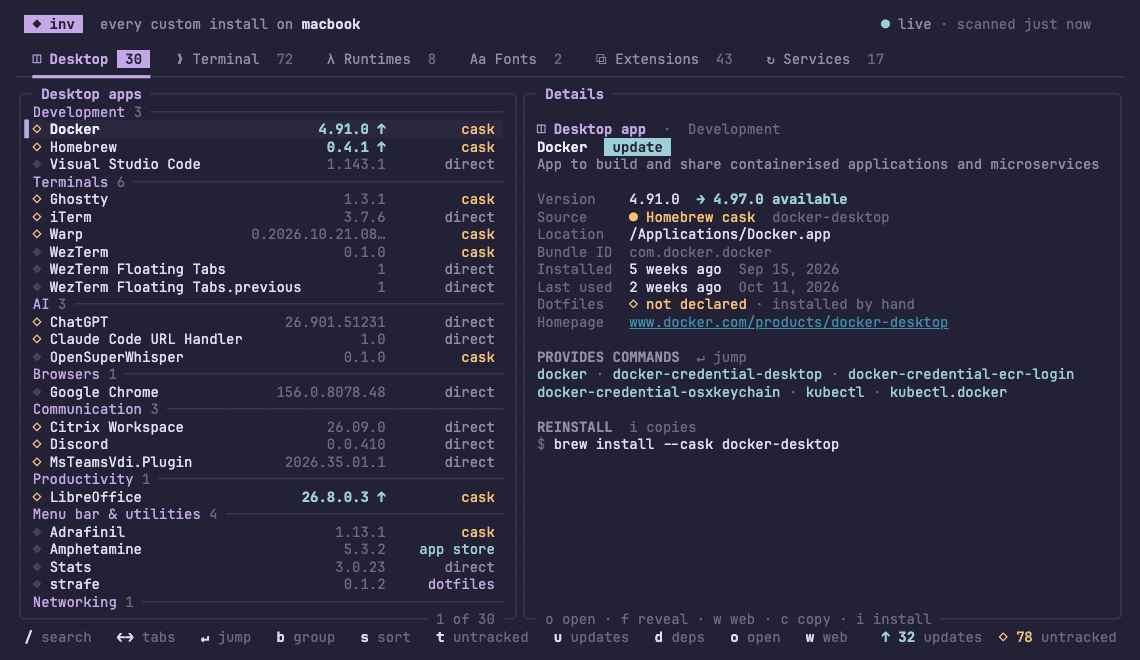
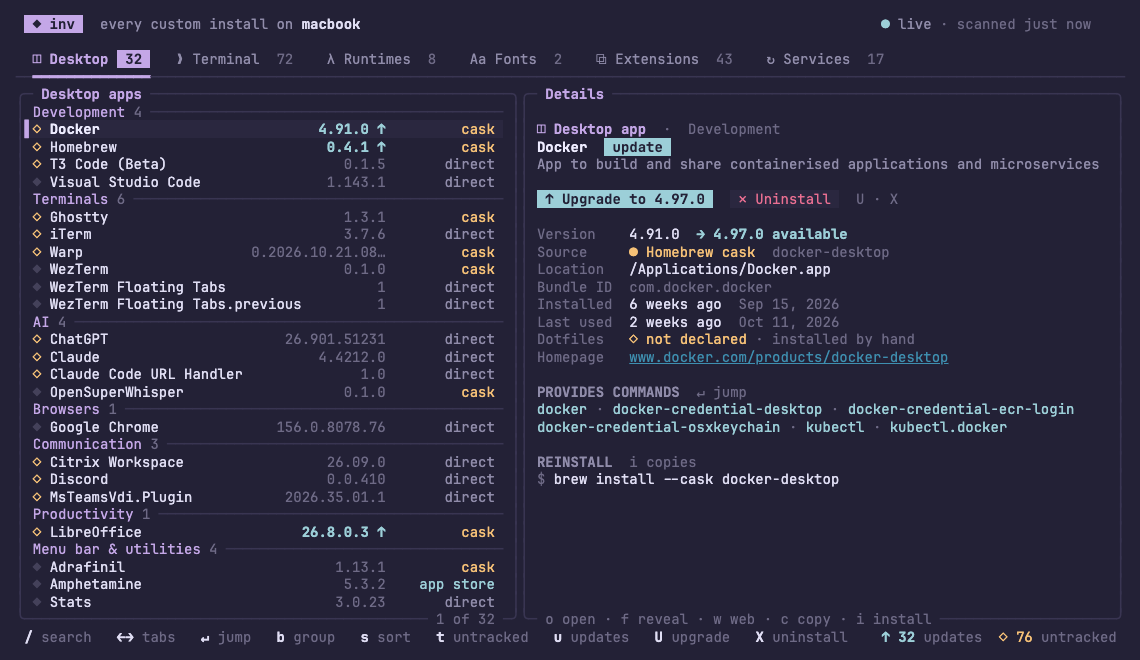
Package inv with Nix and document upgrades and exports
Add a buildGoModule package so dotfiles can consume the flake, relax the
go directive to the dependencies' real minimum, and refresh the README,
screenshot, and agent guide for the new actions.

diff --git a/README.md b/README.md
@@ -7,7 +7,7 @@
 
   <p>
     inv finds custom installs across Homebrew, the App Store, npm, uv, vendor installers, and hand-copied binaries.
-    It separates desktop apps from terminal tools, flags drift from your dotfiles, and updates as you install and remove things.
+    It separates desktop apps from terminal tools, flags drift from your dotfiles, upgrades or removes things with the right package manager, and updates as you install and remove things.
   </p>
 
   <p>
@@ -23,26 +23,25 @@
 You need macOS and either Nix with flakes or Go 1.26+.
 Homebrew, `mas`, and `npm` are optional; inv uses them when they are installed.
 
-From the repository root, build and run:
+Run it straight from GitHub with Nix:
 
 ```sh
-nix develop -c go build -o inv .
-./inv
+nix run github:dboyza/inv
 ```
 
-Without Nix, run `go build -o inv .` instead.
+Or build from a checkout, with `nix develop -c go build -o inv .` or plain `go build -o inv .`, then run `./inv`.
 The first scan takes a few seconds, then six tabs appear with counts for desktop apps, terminal tools, runtimes, fonts, extensions, and services.
 Later launches paint instantly from a cache in `~/Library/Caches/inv/` and refresh in the background.
 
-inv only reads your system.
-It does check for updates over the network with `brew outdated --greedy`, `mas outdated`, and `npm outdated -g`, and it runs `--version` on standalone binaries that have no other version source.
+inv only changes your system when you confirm an upgrade or uninstall.
+In the background it checks for updates over the network with `brew outdated --greedy`, `mas outdated`, and `npm outdated -g`, and it runs `--version` on standalone binaries that have no other version source.
 
 For scripting, `./inv --json` prints the full inventory and exits.
 
 ## Preview
 
 <p align="center">
-  <a href="docs/assets/screenshot.png"><img src="docs/assets/screenshot.png" width="860" alt="inv showing the Desktop tab grouped by purpose, with Docker selected: an available update, its Homebrew cask source, and the six command-line tools it bundles"></a>
+  <a href="docs/assets/screenshot.png"><img src="docs/assets/screenshot.png" width="860" alt="inv showing the Desktop tab grouped by purpose, with Docker selected: Upgrade and Uninstall buttons, an available update, its Homebrew cask source, and the six command-line tools it bundles"></a>
 </p>
 
 ## How it works
@@ -53,9 +52,15 @@ inv collects raw observations from each install source in parallel, then classif
 - **Every row shows where it came from.** Source badges distinguish brew, cask, App Store, npm, uv, dotfiles, vendor installers, and manual copies.
 - **Apps and their CLIs are linked.** Commands that ship inside an app, like `docker` in Docker.app, show `via Docker`, and Enter jumps between them.
 - **Drift is visible.** ◆ marks items your dotfiles declare, ◇ marks hand installs, and ✗ marks declared items that are missing.
+- **Upgrade and uninstall in place.** Buttons in the details pane run the owning package manager, such as `brew upgrade --cask` or `npm uninstall -g`, after a confirmation that shows the exact command.
 - **It stays current.** A file watcher rescans only the affected sources and announces installs, removals, and upgrades as they happen.
 
 The details pane adds versions and available updates, install and last-used dates, zsh history run counts, commands shared between installs, dangling links, and a reinstall command.
+
+Upgrades and uninstalls take over the terminal so you see live output and can answer Touch ID or `sudo` prompts; inv returns when the command finishes.
+Items no package manager owns, such as direct-download apps or hand-copied binaries, move to the Trash, where Finder's Put Back restores them.
+inv refuses to remove things it cannot do safely, such as CLIs bundled inside an app, dotfiles-managed tools, and system installs, and explains why instead.
+Press `E` to export every untracked install as snippets for `nix/homebrew.nix` and `nix/macos-apps.json`, plus commented lists of what no package manager can reproduce.
 
 Dotfiles drift reads `nix/homebrew.nix`, `nix/macos-apps.json`, and `scripts/managed-tools.json` from a Nix dotfiles repository.
 inv finds the repository by following Home Manager links such as `~/.zshrc`, or you can set `INV_DOTFILES` to its path.
@@ -72,9 +77,11 @@ Without one, drift markers are hidden.
 | `enter` | Jump between an app and its bundled CLIs; opens details on narrow screens |
 | `b` / `s` | Group by purpose, source, or nothing; sort by name, newest, or last used |
 | `t` / `u` / `d` | Show only untracked, only updatable, or include brew dependencies |
+| `U` / `X` | Upgrade or uninstall the selected item (or click its button), after confirming |
+| `E` | Export untracked installs as dotfiles snippets |
 | `o` `f` `w` | Open the app, reveal in Finder, open the homepage |
 | `c` / `i` | Copy the path or the reinstall command |
-| `r` / `U` | Rescan now, recheck updates |
+| `r` / `R` | Rescan now, recheck updates |
 | `?` | Full help |
 
 </details>
@@ -88,10 +95,11 @@ package-tui/
 │   ├── snapshot.go     Collector groups, parallel scans, cache
 │   ├── build.go        Snapshot to display items: drift, links, updates
 │   ├── catalog.go      Curated purpose groups and descriptions
+│   ├── ops.go          Upgrade and uninstall plans per source
 │   └── watch.go        Debounced filesystem watching
 ├── internal/ui/        Bubble Tea model, views, keys, Rose Pine theme
 ├── docs/assets/        Logo and screenshot
-├── flake.nix           Dev shell that pins Go
+├── flake.nix           Nix package and a dev shell that pins Go
 └── AGENTS.md           Conventions for contributors and coding agents
 ```
 

diff --git a/AGENTS.md b/AGENTS.md
@@ -10,7 +10,9 @@ Record only durable project knowledge, never session notes.
 - Desktop apps and terminal tools must stay visually separate: distinct tabs, accent colors, and icons per kind.
 - Tabs are Desktop, Terminal, Runtimes, Fonts, Extensions, and Services; items group by purpose by default, with the source shown as a badge.
 - The theme is Rose Pine Moon, matching the user's dotfiles `theme/palette.json`; do not paint a global background.
-- Actions stay non-destructive: open, reveal, homepage, copy path, copy reinstall command; no install, update, or uninstall.
+- Upgrade and uninstall always confirm first and run in the foreground via `tea.ExecProcess`, so output and Touch ID or sudo prompts stay visible; uninstall dialogs default to Cancel.
+  Plans live in `ops.go`: use the owning package manager, move unmanaged items to the Trash through Finder, and block bundled CLIs, dotfiles-managed tools, plugins, services, and system installs with a reason.
+  Never trash a path that `safeToTrash` rejects, and trash font families by their exact files, never the Fonts folder.
 - Homebrew dependencies are hidden until toggled; macOS system apps (non-App Store `com.apple.*`) are excluded, while Apple's App Store apps appear in an Apple group.
 - CLIs that ship inside apps appear in Terminal with a `via <App>` badge and link back to their app.
 - Dotfiles drift (◆ declared, ◇ untracked, ✗ missing) appears only when a Nix dotfiles repo is found.
@@ -35,7 +37,9 @@ Record only durable project knowledge, never session notes.
 
 ## Verification
 
-- Run `nix develop -c go vet ./...` and `nix develop -c go test ./...`.
+- Run `nix develop -c go vet ./...` and `nix develop -c go test ./...`; `nix build` also runs the tests.
+- After changing Go dependencies, refresh `vendorHash` in `flake.nix` from the hash `nix build` reports.
+- The user's dotfiles consume this flake as `github:dboyza/inv`; keep `packages.<darwin system>.default` building.
 - `nix develop -c go test ./internal/inv -bench BuildFromCache` measures `Build` against the local cache; keep it in the low milliseconds.
 - For visual checks, run the app in tmux with `env -u TMUX COLORTERM=truecolor ./inv` so Lip Gloss keeps full color, and test 80 × 24 as well as wide terminals.
 - Check classification against the real machine with `./inv --json`.
